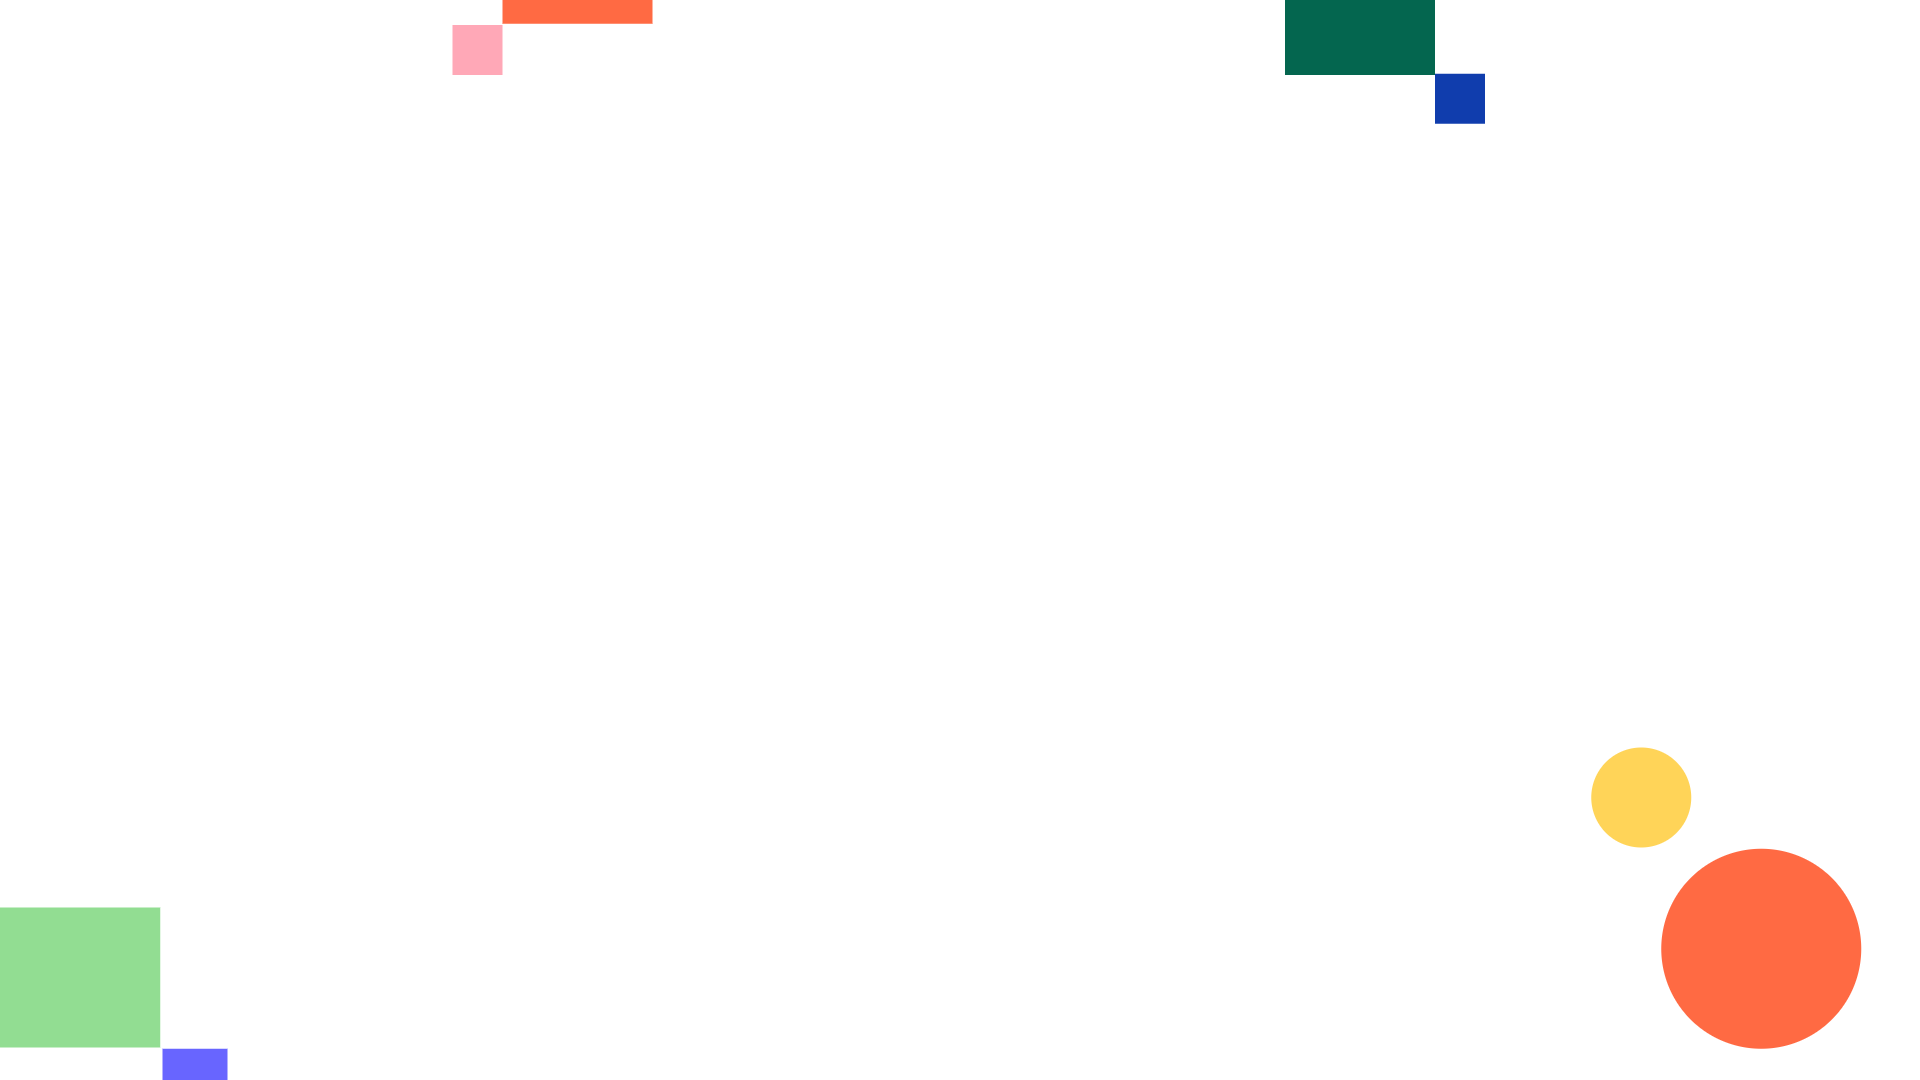
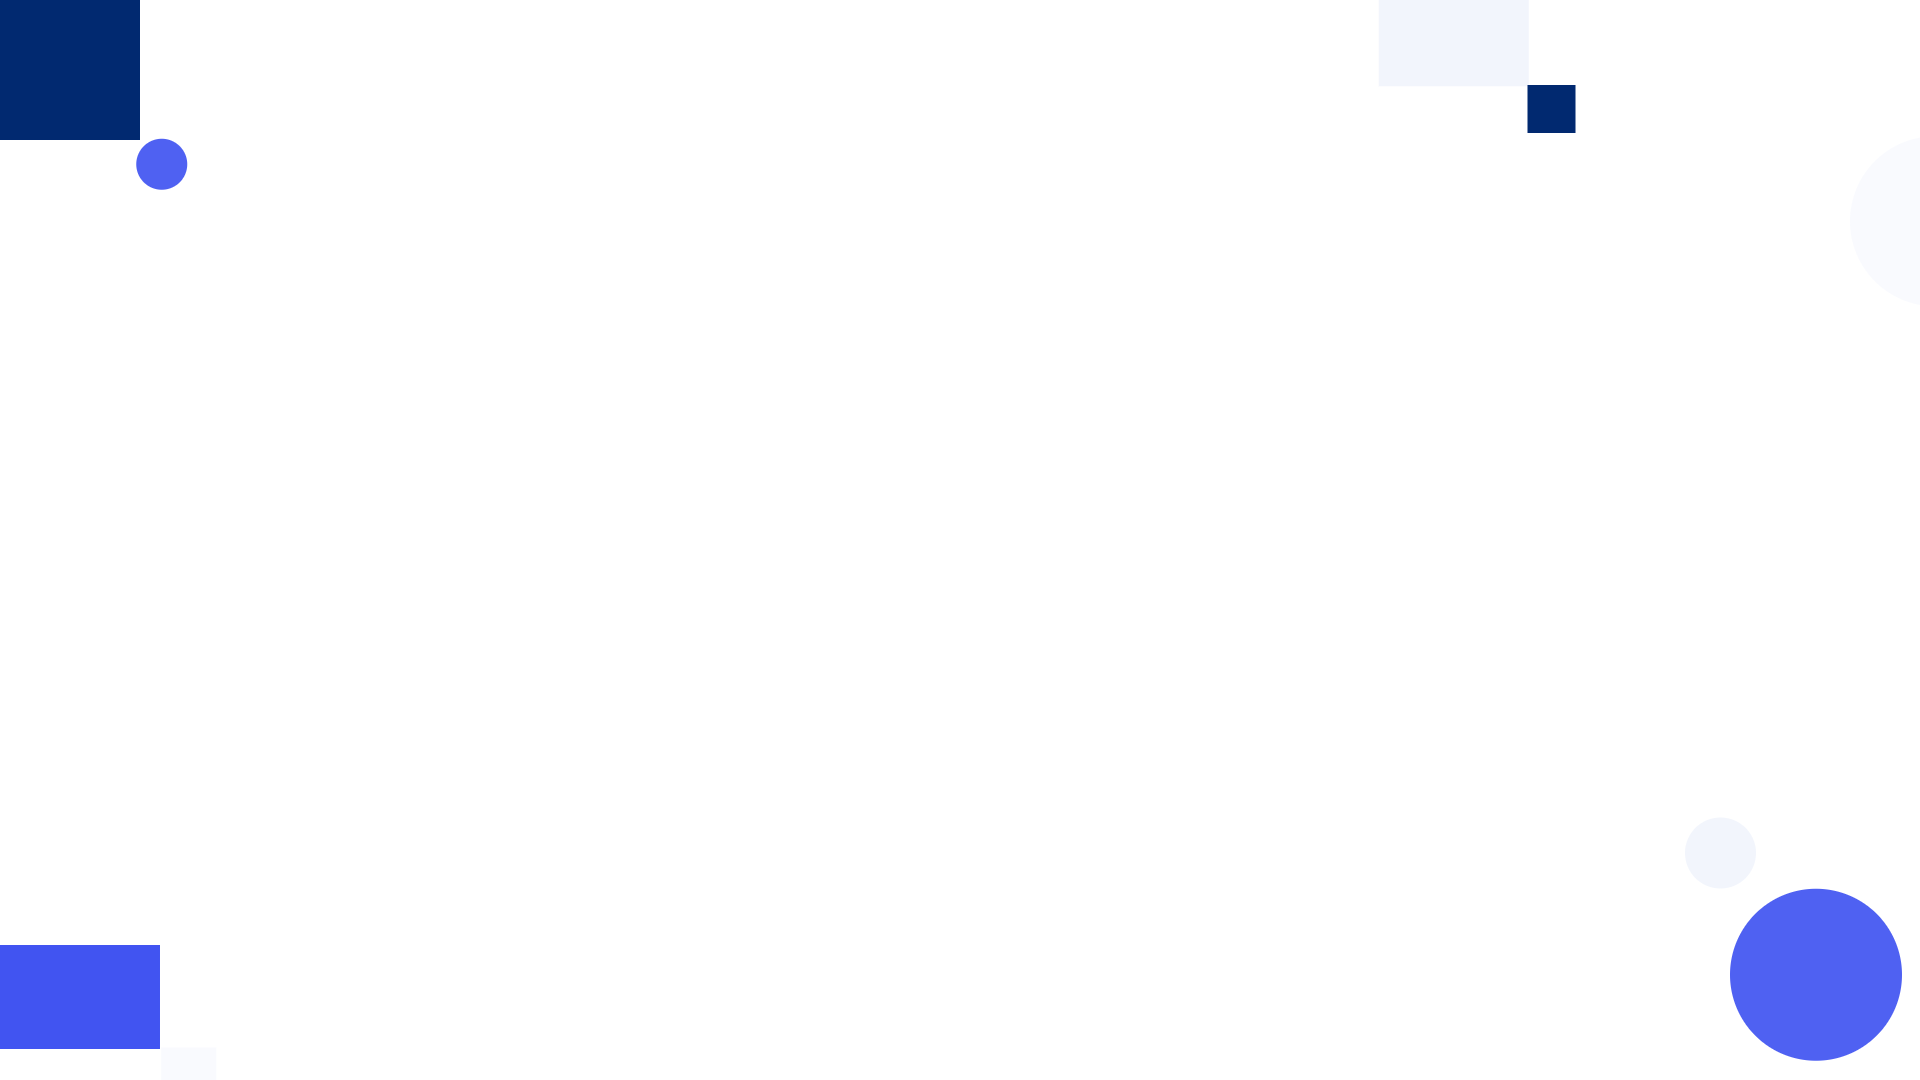
top menu

diff --git a/assets/css/style.css b/assets/css/style.css
@@ -417,7 +417,8 @@ section {
 .hero {
   width: 100%;
   height: 100vh;
-  background: url(../img/hero-bg.png) top center no-repeat;
+  /* background: url(../img/hero-bg.png) top center no-repeat; */
+  background: url(../img/tes-bg.png) right bottom no-repeat;
   background-size: cover;
 }
 
@@ -426,12 +427,44 @@ section {
   font-size: 48px;
   font-weight: 700;
   color: #012970;
+
+  -webkit-touch-callout: none; /* iOS Safari */
+    -webkit-user-select: none; /* Safari */
+     -khtml-user-select: none; /* Konqueror HTML */
+       -moz-user-select: none; /* Old versions of Firefox */
+        -ms-user-select: none; /* Internet Explorer/Edge */
+            user-select: none; /* Non-prefixed version, currently
+                                  supported by Chrome, Edge, Opera and Firefox */
 }
 
 .hero h2 {
-  color: #444444;
-  margin: 15px 0 0 0;
+  color: #012970;
+  margin: 0;
+  font-size: 42px;
+  font-weight: 650;
+
+  -webkit-touch-callout: none; /* iOS Safari */
+    -webkit-user-select: none; /* Safari */
+     -khtml-user-select: none; /* Konqueror HTML */
+       -moz-user-select: none; /* Old versions of Firefox */
+        -ms-user-select: none; /* Internet Explorer/Edge */
+            user-select: none; /* Non-prefixed version, currently
+                                  supported by Chrome, Edge, Opera and Firefox */
+}
+
+.hero h3 {
+  color: #012970;
+  margin: 0;
   font-size: 26px;
+  font-weight: 700;
+
+  -webkit-touch-callout: none; /* iOS Safari */
+    -webkit-user-select: none; /* Safari */
+     -khtml-user-select: none; /* Konqueror HTML */
+       -moz-user-select: none; /* Old versions of Firefox */
+        -ms-user-select: none; /* Internet Explorer/Edge */
+            user-select: none; /* Non-prefixed version, currently
+                                  supported by Chrome, Edge, Opera and Firefox */
 }
 
 .hero .btn-get-started {
@@ -441,7 +474,7 @@ section {
   border-radius: 4px;
   transition: 0.5s;
   color: #fff;
-  background: #4154f1;
+  background: #012970;
   box-shadow: 0px 5px 30px rgba(65, 84, 241, 0.4);
 }
 
@@ -450,12 +483,32 @@ section {
   font-weight: 600;
   font-size: 16px;
   letter-spacing: 1px;
+
+  -webkit-touch-callout: none; /* iOS Safari */
+    -webkit-user-select: none; /* Safari */
+     -khtml-user-select: none; /* Konqueror HTML */
+       -moz-user-select: none; /* Old versions of Firefox */
+        -ms-user-select: none; /* Internet Explorer/Edge */
+            user-select: none; /* Non-prefixed version, currently
+                                  supported by Chrome, Edge, Opera and Firefox */
 }
 
 .hero .btn-get-started i {
   margin-left: 5px;
   font-size: 18px;
   transition: 0.3s;
+
+  -webkit-touch-callout: none; /* iOS Safari */
+    -webkit-user-select: none; /* Safari */
+     -khtml-user-select: none; /* Konqueror HTML */
+       -moz-user-select: none; /* Old versions of Firefox */
+        -ms-user-select: none; /* Internet Explorer/Edge */
+            user-select: none; /* Non-prefixed version, currently
+                                  supported by Chrome, Edge, Opera and Firefox */
+}
+
+.hero .btn-get-started:hover {
+  background: #4154f1;
 }
 
 .hero .btn-get-started:hover i {
@@ -494,6 +547,9 @@ section {
     font-size: 32px;
   }
   .hero h2 {
+    font-size: 28px;
+  }
+  .hero h3 {
     font-size: 24px;
   }
   .hero .hero-img img {

diff --git a/tes.html b/tes.html
@@ -31,33 +31,15 @@
 </head>
 
 <body>
-  
+
   <!-- ======= Hero Section ======= -->
-  <section id="hero" class="hero d-flex align-items-end min-vh-100">
+  <section id="hero" class="hero d-flex align-items-center min-vh-100">
 
     <div class="container">
       <div class="row justify-content-center">
         <div class="col-lg-10 d-flex flex-column justify-content-center">
-          <span class="section-header p-0">
-            <h3 class="text-body">Hi There! <span class="wave">👋</span></h3>
-          </span>
-          <h1 class="text-center"><span class="text-body">I'M </span>ANDREAS YULIANTO</h1>
-          <br>
-          <br>
-          <h2 id="typeit-2" class="text-center"></h2>
-          <br>
-          <br>
-          <br>
-          <br>
-          <br>
-          <br>
+          <h1 id="companionMethods" class="text-center"></h1>
         </div>
-      </div>
-      <div class="text-center align-bottom max-vh-100">
-        <a href="https://github.com/reas-dev" target="_blank" class="social-media"><p class="h3 d-inline mx-1"><i class="bi bi-github"></i></p></a>
-        <a href="https://www.linkedin.com/in/andreas-yulianto/" target="_blank" class="social-media"><p class="h3 d-inline mx-1"><i class="bi bi-linkedin bx bxl-linkedin"></i></p></a>
-        <a href="https://www.instagram.com/_and.reas/" target="_blank" class="social-media"><p class="h3 d-inline mx-1"><i class="bi bi-instagram bx bxl-instagram"></i></p></a>
-        <a href="https://wa.me/+6281317476244" target="_blank" class="social-media"><p class="h3 d-inline mx-1"><i class="bi bi-whatsapp"></i></p></a>
       </div>
     </div>
 
@@ -77,30 +59,36 @@
   <script src="assets/vendor/typeit/typeit.min.js"></script>
 
   <script>
-    new TypeIt("#typeit-1", {
+    new TypeIt("#companionMethods", {
       speed: 50,
       waitUntilVisible: true,
       afterComplete: function (step, instance) {
         instance.destroy();
       }
     })
-      .type("Andreas Yulianto")
-      .go();
-  </script>
-
-  <script>
-    new TypeIt("#typeit-2", {
-      speed: 70,
-      waitUntilVisible: true,
-      loop: true,
-      loopDelay: 500,
-      startDelay: 500,
-    })
-      .type("Web Developer", {delay: 700})
-      .delete()
-      .type("Laravel Enthusiast", {delay: 700})
-      .delete()
-      .type("Graphic Design Enthusiast", {delay: 700})
+      .type("hell", {delay: 200})
+      .move(-3)
+      .delete(1)
+      .type('H')
+      .move('END')
+      .type(' wo')
+      .pause(300)
+      .delete(2)
+      .type('Worl')
+      .move(-5)
+      .type('o')
+      .move('END')
+      .type('d!')
+      .pause(300)
+      .break({delay: 150})
+      .break({delay: 150})
+      .type("- re")
+      .pause(600)
+      .delete(4)
+      .type("I'm Andre")
+      .move('END')
+      .pause(400)
+      .type(" 👋")
       .go();
   </script>
 

diff --git a/assets/css/my.css b/assets/css/my.css
@@ -1,9 +1,36 @@
+.header{
+    background: rgba(255, 255, 255, .75) !important;
+    /* background: rgba(246, 249, 255, .75) !important; */
+}
+
 .header.header-scrolled{
     background: rgba(255, 255, 255, .95) !important;
     /* background: rgba(246, 249, 255, .95) !important; */
 }
 
-.tes-bg{ 
-    background: url(../img/tes-bg.png) right center no-repeat !important;
-    background-size: auto !important;
+.wave {
+    animation-name: wave-animation;  /* Refers to the name of your @keyframes element below */
+    animation-duration: 2.5s;        /* Change to speed up or slow down */
+    animation-iteration-count: infinite;  /* Never stop waving :) */
+    transform-origin: 70% 70%;       /* Pivot around the bottom-left palm */
+    display: inline-block;
+}
+  
+@keyframes wave-animation {
+    0% { transform: rotate( 0.0deg) }
+    10% { transform: rotate(14.0deg) }  /* The following five values can be played with to make the waving more or less extreme */
+    20% { transform: rotate(-8.0deg) }
+    30% { transform: rotate(14.0deg) }
+    40% { transform: rotate(-4.0deg) }
+    50% { transform: rotate(10.0deg) }
+    60% { transform: rotate( 0.0deg) }  /* Reset for the last half to pause */
+    100% { transform: rotate( 0.0deg) }
+}
+
+.social-media {
+    color: #012970 !important;
+}
+
+.social-media:hover {
+    color: #4154f1 !important;
 }
